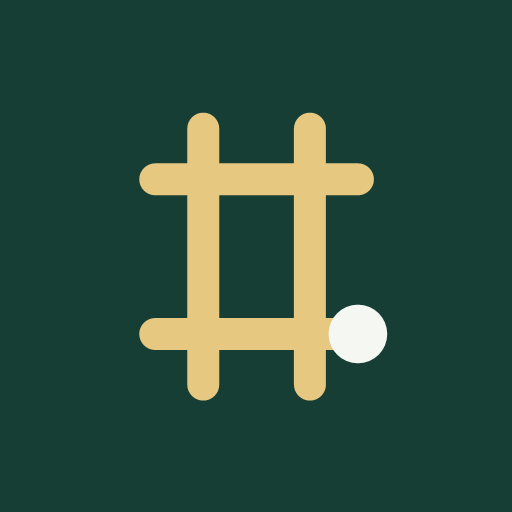
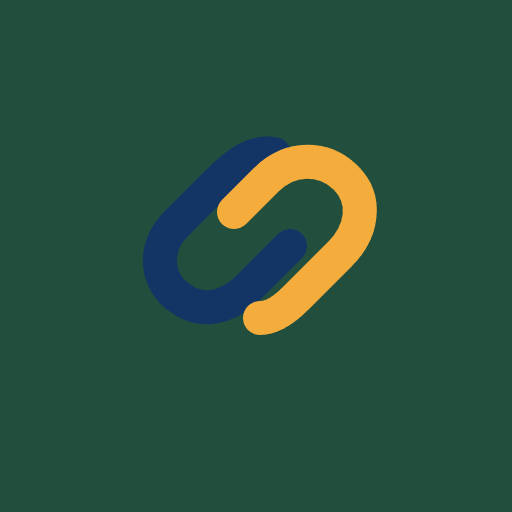
화면수정

Changed region(s): [[0.25, 0.2188, 0.7812, 0.7812]]

diff --git a/apps/web/src/IdiomBook.tsx b/apps/web/src/IdiomBook.tsx
@@ -1,5 +1,5 @@
 import { useState } from 'react';
-import { normalizeHanjaForSearch, type Idiom } from '@idioms/shared';
+import { normalizeReadingForSearch, type Idiom } from '@idioms/shared';
 import ContentSource from './ContentSource';
 
 type Props = {
@@ -16,17 +16,18 @@ export default function IdiomBook({ idioms, favorites, completed, mistakes, lega
   const [tab, setTab] = useState<typeof tabs[number]>('전체');
   const [query, setQuery] = useState('');
   const [limit, setLimit] = useState(40);
-  const term = normalizeHanjaForSearch(query).replace(/\s/g, '').toLowerCase();
+  const term = normalizeReadingForSearch(query);
   const filtered = idioms.filter(item => {
     const included = tab === '전체' || (tab === '즐겨찾기' ? favorites : tab === '학습완료' ? completed : mistakes).has(item.id);
-    return included && normalizeHanjaForSearch(`${item.hanja} ${item.reading} ${item.meaning}`).replace(/\s/g, '').toLowerCase().includes(term);
+    return included && normalizeReadingForSearch(item.reading).includes(term);
   });
   return <section className="idiom-book panel" aria-labelledby="book-title">
     <div className="book-heading"><div><span className="eyebrow">한 글자씩 쌓이는 배움</span><h1 id="book-title">나의 한자성어장</h1></div><span>전체 {idioms.length}개</span></div>
     <p className="book-description">한자와 뜻을 살펴보고, 다시 보고 싶은 한자성어를 모아 보세요.</p>
     <div className="book-tabs" role="group" aria-label="한자성어장 분류">{tabs.map(value => <button key={value} aria-pressed={tab === value} onClick={() => { setTab(value); setLimit(40); }}>{value}</button>)}</div>
-    <label className="book-search" htmlFor="book-search">한자성어 검색</label>
-    <input className="book-search-input" id="book-search" type="search" placeholder="한자, 독음 또는 뜻 검색" value={query} onChange={event => { setQuery(event.target.value); setLimit(40); }} />
+    <label className="book-search" htmlFor="book-search">한자성어 독음 검색</label>
+    <input className="book-search-input" id="book-search" type="search" placeholder="한글 독음 검색" value={query} onChange={event => { setQuery(event.target.value); setLimit(40); }} />
+    <p className="book-note">독음만 검색해요. 두음법칙을 적용해 녹/록·유/류·이/리도 함께 찾아요.</p>
     {tab === '학습완료' && <p className="book-note">퀴즈에서 직접 정답을 맞힌 한자성어예요. 이 기능을 추가한 뒤의 정답부터 기록해요.</p>}
     {tab === '오답노트' && <p className="book-note">선택한 후보의 독음을 틀렸던 한자성어예요. 정답을 맞힌 뒤에도 복습할 수 있도록 남겨 두어요.{legacyMistakeCount > 0 && ` 이전 방식의 기록 ${legacyMistakeCount}개는 틀린 후보를 확인할 수 없어 이 목록에서 제외했어요.`}</p>}
     <p className="book-result" role="status">{filtered.length}개 한자성어</p>

diff --git a/apps/web/src/App.tsx b/apps/web/src/App.tsx
@@ -352,7 +352,7 @@ export default function App() {
             <section className="hints" aria-label="정답 후보 힌트">
               <div className="hint-heading"><h3>02 <span>풀고 싶은 한자성어를 선택해 주세요</span></h3>{character && <span className="pill">{candidates.length}개 후보</span>}</div>
               {!character ? <p className="empty">위에서 한 글자를 고르면<br />그 글자가 들어간 한자성어의 힌트가 나타나요.</p> : <>
-                <p className="hint-description">‘<b>{character}</b>’가 들어가는 후보를 하나 선택한 뒤, 그 후보의 한글 독음을 입력하세요.</p>
+                <p className="hint-description">‘<b>{character}</b>’와 이어지는 후보를 선택하세요. 두음법칙을 적용해 녹/록·유/류·이/리도 함께 찾아요. 정답은 선택한 후보의 원래 한글 독음으로 입력해 주세요.</p>
                 <ol className="candidate-list hanja-candidates" onWheel={closeFloating} onTouchMove={closeFloating} onScroll={() => { if (!opening.current) closeFloating(); }}>{candidates.map((item, index) => <li key={item.id} className={selectedId === item.id ? 'selected-candidate' : ''} onClick={event => { if ((event.target as HTMLElement).tagName === 'LABEL') return; selectCandidate(item, event.currentTarget.querySelector('input')!); }}>
                   <label className="candidate-choice hanja-candidate-choice"><input type="radio" name="candidate" value={item.id} aria-label={`후보 ${index + 1}, ${item.hanja} 선택`} checked={selectedId === item.id} onChange={() => {}} /><span className="candidate-number">{String(index + 1).padStart(2, '0')}</span><strong lang="zh">{item.hanja}</strong></label>
                   <p>{item.meaning}</p>{selectedId === item.id && (attempts[item.id] ?? 0) > 0 && <span className="reading-hint">독음 힌트 · {readingHint(item.reading, attempts[item.id])}</span>}

diff --git a/packages/shared/src/index.ts b/packages/shared/src/index.ts
@@ -7,6 +7,21 @@ export interface Idiom {
 }
 
 export const SESSION_LIMIT = 10;
+/** Reading search only: fold initial-sound variants at every partial-match position. */
+export function normalizeReadingForSearch(value: string): string {
+  return [...value.normalize('NFKC').replace(/\s/g, '').toLowerCase()].map(character => {
+    const syllable = character.codePointAt(0)! - 0xac00;
+    if (syllable < 0 || syllable >= 11172) return character;
+    const initial = Math.floor(syllable / 588);
+    const vowel = Math.floor((syllable % 588) / 28);
+    let folded = initial;
+    if (initial === 5) {
+      if ([2, 6, 7, 12, 17, 20].includes(vowel)) folded = 11;
+      else if ([0, 1, 8, 11, 13, 18].includes(vowel)) folded = 2;
+    } else if (initial === 2 && [6, 12, 17, 20].includes(vowel)) folded = 11;
+    return String.fromCodePoint(0xac00 + folded * 588 + syllable % 588);
+  }).join('');
+}
 export { englishForms, englishLetters, englishCandidates, matchesEnglish, englishLength, englishHint, type EnglishWord } from './english.ts';
 
 /** Search only: preserve the displayed Hanja, Korean reading and stable row ID. */
@@ -74,9 +89,9 @@ export function candidatesFor(
   idioms: readonly Idiom[], character: string, sessionIds: ReadonlySet<string>, historyIds: ReadonlySet<string>,
 ): Idiom[] {
   if (!character) return [];
-  const key = normalizeAnswer(character);
-  if (!/^[가-힣]$/u.test(key)) return [];
-  const eligible = idioms.filter(item => normalizeAnswer(item.reading).includes(key) && !sessionIds.has(item.id));
+  if (!/^[가-힣]$/u.test(normalizeAnswer(character))) return [];
+  const key = normalizeReadingForSearch(character);
+  const eligible = idioms.filter(item => normalizeReadingForSearch(item.reading).includes(key) && !sessionIds.has(item.id));
   const unseen = eligible.filter(item => !historyIds.has(item.id));
   return unseen.length ? unseen : eligible;
 }

diff --git a/progress.md b/progress.md
@@ -1,5 +1,36 @@
 # 사자성어 학습 구현 진행표
 
+## 모두의 이음 이름 확정·아이콘 교체 (2026-10-24)
+
+- 요청/변경: 앱 이름 ‘모두의 이음’ 확정. 기존 manifest·화면 이름 일치 확인, AGENTS·요구사항 확정 표시 갱신. 사용자 첨부 파랑/금색 연결 심볼을 기존 `apps/web/public/icon.svg` 형식의 경로로 재현하고 초록 배경 `#214e3d` 적용. 원본 픽셀 추출이 아닌 벡터 재현이며 텍스트·워터마크 제외. `icon-192.png`·`icon-512.png`를 Chromium canvas로 렌더링. `apps/web/ICON-NOTES.md`에 제작 경위 기록. 생성형 이미지 API 사용 없음.
+- 검증: 512px 아이콘 시각 확인, `pnpm.cmd build:vercel` 통과(TypeScript 포함, 기존 영어 청크 경고), `git diff --check` 통과(LF→CRLF 안내 경고). 이미지/명칭 변경으로 단위·브라우저 검사 재실행하지 않음, lint 명령 미등록.
+- 적용/남은 작업: 로컬 및 루트 dist 아이콘 갱신. Git·배포 미실행. iPhone 기존 홈 화면 아이콘 갱신 여부 확인 대기. 기존 설치 아이콘이 남으면 홈 화면 아이콘을 제거 후 다시 추가하되 사이트 데이터는 삭제하지 않도록 안내. 사용자 제공 이미지의 이용 권리 검증과는 구분.
+
+## 두음법칙 적용 안내 추가 (2026-10-24)
+
+- 요청/변경: `App.tsx` 한자 후보 안내와 `IdiomBook.tsx` 검색창 아래에 두음법칙 적용 및 녹/록·유/류·이/리 예시 추가. 후보 안내에 정답은 원래 독음으로 입력함을 명시. 영어 변경 없음.
+- 검증: `pnpm.cmd build:vercel` 통과(TypeScript 포함, 기존 영어 청크 경고), `git diff --check` 통과(LF→CRLF 안내 경고). 문구 추가로 단위·브라우저 검사 재실행하지 않음. lint 명령 미등록.
+- 적용/남은 작업: 로컬 및 루트 dist 갱신 완료, 실제 기기 확인 대기. Git·배포 미실행.
+
+## 문제 후보 선정에도 두음 변이 허용 (2026-10-24)
+
+- 요청/변경: `packages/shared/src/index.ts`의 `candidatesFor`가 단어장과 동일한 독음 정규화 함수를 사용하도록 변경. 녹 선택 시 록, 류 선택 시 유 등도 연결 후보가 됨. 후보 수·글자 활성화·후보 소진 판단은 해당 함수로 함께 반영. 세션 기출 제외·미출제 우선 유지. 정답은 선택 후보 원본 독음 비교 유지, 영어 변경 없음. 요구사항 갱신.
+- 검증: `pnpm.cmd test` 19개, `pnpm.cmd build`, `pnpm.cmd build:vercel`, `node scripts/check-browser.mjs` 31개 통과. 문제 두음 변이·받침 구분·세션 제외·미출제 우선·과거 기출 복귀 단위 검사 추가. `git diff --check` 통과(LF→CRLF 안내 경고). 기존 영어 청크 경고, lint 명령 미등록.
+- 적용/남은 작업: 로컬 및 루트 dist 배포본 갱신. Git·실제 배포 미실행. 과거 ‘검색에만 적용’ 기록은 이번 변경 이전 기준. iPhone 확인 대기.
+
+## 독음 검색 두음 변이 허용 (2026-10-24)
+
+- 요청/변경: 한자 단어장 독음 검색에서 녹/록·유/류·이/리·녀/여 등을 같은 값으로 비교. `packages/shared/src/index.ts`에 순수 검색 정규화 함수 공개, `IdiomBook.tsx`에 연결. 받침·공백 정규화 유지, 부분 검색의 각 음절에 적용. 원본 데이터·정답 판정·후보 연결·영어는 유지.
+- 근거/범위: [국립국어원 한글 맞춤법 제10~12항](https://www.korean.go.kr/kornorms/m/m_regltn.do) 2026-10-24 확인. 단어 첫머리의 표기 규칙을 참고한 검색용 확장이며 원문을 일괄 교정하지 않음.
+- 검증: `pnpm.cmd test` 18개, `pnpm.cmd build`, `pnpm.cmd build:vercel`, `node scripts/check-browser.mjs` 31개 통과. 두음 변이·받침 보존·비대상 음절·퀴즈 판정 유지 단위 검사 및 녹/록 동일 목록 브라우저 검사 추가. `git diff --check` 통과(LF→CRLF 안내 경고). 기존 영어 청크 경고, lint 명령 미등록.
+- 적용/남은 작업: 로컬 및 루트 dist 배포본 갱신. Git·배포 미실행, iPhone 확인 대기.
+
+## 한자 단어장 독음 전용 검색 (2026-10-24)
+
+- 요청/변경: `apps/web/src/IdiomBook.tsx` 검색 대상을 독음만으로 제한. 한자 표기·뜻 제외, 부분 일치·공백 무시 유지. 검색 라벨·placeholder·요구사항·웹 README 갱신. 영어 검색 변경 없음.
+- 검증: `pnpm.cmd build`, `pnpm.cmd build:vercel` 통과(TypeScript 포함, 기존 영어 청크 경고). `node scripts/check-browser.mjs` 31개 통과: 한자 입력 미일치 및 ‘녹’ 검색이 독음 일치 항목만 반환하는 회귀 검사 추가. `git diff --check` 통과(LF→CRLF 안내 경고). 단위 테스트 재실행하지 않음, lint 명령 미등록.
+- 적용/남은 작업: 로컬 및 루트 dist 배포본 갱신. Git·실제 배포 미실행, 실제 iPhone 확인 대기.
+
 ## 영어 정답 입력창에 한자 키보드 대응 적용 (2026-10-24)
 
 - 요청/승인: 한자 정답 입력창의 방식을 영어에도 동일 적용.

diff --git a/docs/requirements.md b/docs/requirements.md
@@ -1,5 +1,8 @@
 # 한자성어 연결 학습 요구사항
 
+- 한자 단어장 검색은 한글 독음만 대상으로 한다(2026-10-24 사용자 확정). 부분 일치·공백 무시를 유지하며 한자 표기와 뜻은 검색 대상에서 제외한다. 영어 검색은 기존 유지.
+- 단어장 독음 검색과 문제 후보 선정은 두음 변이(녹/록·유/류·이/리 등)를 같은 값으로 비교한다. 부분 비교를 위해 각 음절에 적용하며 원본 독음·정답 판정은 변경하지 않는다. 후보 선정은 세션 기출 제외·미출제 우선 규칙을 유지한다(2026-10-24).
+
 ## 한 이음 10문제로 축소 (2026-10-24)
 
 - 한자·영어 모두 정답 10개 연결 시 완주하며 작은 별 1개를 적립한다. 시작 항목은 문제 수에 포함하지 않고, 9문제 이하 중도 종료에는 별을 적립하지 않는다.
@@ -144,7 +147,7 @@
 
 - 영어 현재 카드의 예문은 계속 표시하고, 한국어 해석은 ‘예문’ 옆 ‘해석 보기/접기’로 펼친다. 처음과 정답 연결·새 세션에서는 접는다. 해석이 없으면 버튼을 표시하지 않는다.
 
-- 앱 표시 이름은 ‘모두의 이음’으로 잠정 적용한다. 상단·하단·브라우저 제목·PWA 이름에 반영하며 패키지명·저장 키는 유지한다. 한자·영어 학습 안내는 ‘이음’, ‘이어갈’ 등 자연스러운 표현을 사용한다. 네트워크의 ‘연결 상태’는 유지한다.
+- 앱 표시 이름은 ‘모두의 이음’으로 확정한다(2026-10-24). 상단·하단·브라우저 제목·PWA 이름에 반영하며 패키지명·저장 키는 유지한다. 한자·영어 학습 안내는 ‘이음’, ‘이어갈’ 등 자연스러운 표현을 사용한다. 네트워크의 ‘연결 상태’는 유지한다.
 
 - 현재 문제 카드의 한자 독음 옆 및 영어 품사 옆에 ‘뜻 보기’ 버튼을 제공한다. 뜻은 처음에 숨기고 버튼으로 펼치거나 접는다. 정답 연결·새 세션에서는 다시 접는다. 후보 목록·단어장·사슬의 뜻과 영어 예문 표시는 유지한다.
 - 향후 한자 UI 변경을 영어에 확대 적용할 때는 사용자에게 먼저 확인한다. 뜻 보기/접기의 양쪽 적용은 사용자 승인 완료.

diff --git a/apps/web/README.md b/apps/web/README.md
@@ -51,7 +51,7 @@ node scripts/check-browser.mjs
 
 퀴즈는 연결 글자 선택 → 후보 선택 → 선택 후보의 독음 입력 순서다. 오답 힌트와 오답노트는 선택한 후보만 대상으로 한다. 과거 출발 한자성어 기반의 오답 v1은 보존하고 목록에서 제외하며, 새 오답은 v2 저장소에 기록한다. 아래의 이전 오답 설명은 이 변경 전 기준이다.
 
-하단 메뉴의 **한자성어장**에서 전체 915개(기존 한자성어 666개·신규 천자문 249개)를 한자·독음·뜻으로 검색하고 즐겨찾기를 저장할 수 있다. 천자문에는 `출처: 천자문`을 표시한다. 학습완료는 실제 맞힌 정답부터 기록하고 오답노트는 선택한 후보를 틀린 기록이다. 세 기록은 이 브라우저에 저장되며 메뉴 이동은 진행 중인 퀴즈를 유지한다. 새로고침하면 진행 중인 퀴즈는 초기화된다. 천자문 검토 범위와 출제 보류 해제 내역은 `data/cheonjamun/reviewed/README.md` 참조.
+하단 메뉴의 **한자성어장**에서 전체 915개(기존 한자성어 666개·신규 천자문 249개)를 한글 독음으로만 검색하고 즐겨찾기를 저장할 수 있다. 천자문에는 `출처: 천자문`을 표시한다. 학습완료는 실제 맞힌 정답부터 기록하고 오답노트는 선택한 후보를 틀린 기록이다. 세 기록은 이 브라우저에 저장되며 메뉴 이동은 진행 중인 퀴즈를 유지한다. 새로고침하면 진행 중인 퀴즈는 초기화된다. 천자문 검토 범위와 출제 보류 해제 내역은 `data/cheonjamun/reviewed/README.md` 참조.
 
 후보 검색은 NFKC와 `爲 → 為`를 적용해 `利/利` 같은 코드 차이로 연결이 끊기지 않게 한다. 교정 전 한자 ID 6개와 중복 제거 ID 3개는 명시적인 이력 이전표로 보존한다. 콘텐츠 32개 행의 교정 내역과 추가 확인 범위는 `../../docs/content-audit.md`에 기록했다.
 

diff --git a/AGENTS.md b/AGENTS.md
@@ -8,7 +8,7 @@
 
 | 항목 | 대상 프로젝트에서 작성 |
 | --- | --- |
-| 프로젝트 이름 / 패키지 scope | `four-letter-idiom` / `@idioms` (서비스 표시 이름: `모두의 이음`, 잠정) |
+| 프로젝트 이름 / 패키지 scope | `four-letter-idiom` / `@idioms` (서비스 표시 이름: `모두의 이음`, 확정) |
 | 서비스 목표·핵심 사용자 흐름 | 남녀노소 재미있게 한자성어 학습. 성어 제시 → 한 글자 선택 → 해당 한자가 포함된 성어 퀴즈 → 정답 성어에서 다음 글자 선택. 세션 최대 10문제. 상세 규칙은 `docs/requirements.md` 참고 |
 | 보고 언어 | 한국어 |
 | 지원 플랫폼·개발 순서 | PWA → Toss → Android → iOS |

diff --git a/apps/web/ICON-NOTES.md b/apps/web/ICON-NOTES.md
@@ -1,0 +1,7 @@
+# 모두의 이음 아이콘
+
+- 2026-10-24 사용자 제공 연결 심볼을 SVG 경로로 재현했다. 원본 스크린샷에서 픽셀을 추출한 파일과는 구분한다.
+- 사용자 제공 배경 견본에 맞춘 짙은 초록 `#214e3d`, 심볼 파랑 `#123566`·금색 `#f4ad3c` 사용.
+- `public/icon.svg`가 편집 원본이며 Chromium canvas로 192px·512px PNG를 렌더링했다. 텍스트·워터마크는 포함하지 않는다.
+- manifest의 512px 아이콘은 maskable 용도로도 사용하므로 심볼을 중앙 안전 영역에 배치했다.
+- 사용자 제공 이미지라는 사실이 상표·이용 권리 검증 완료를 의미하지 않는다.
